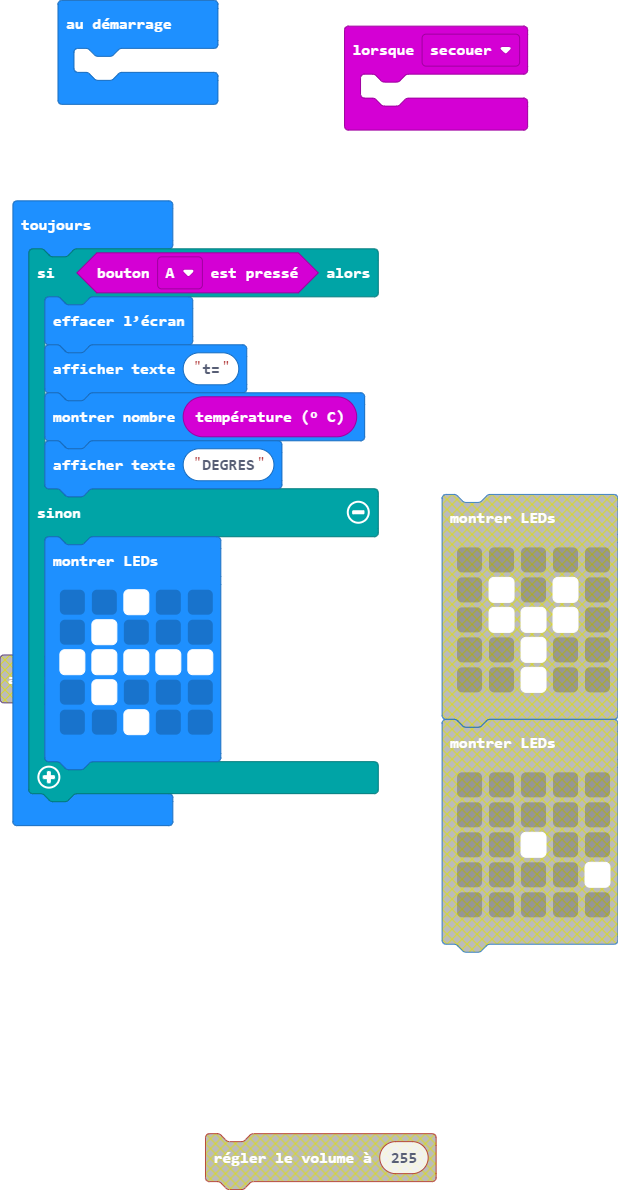
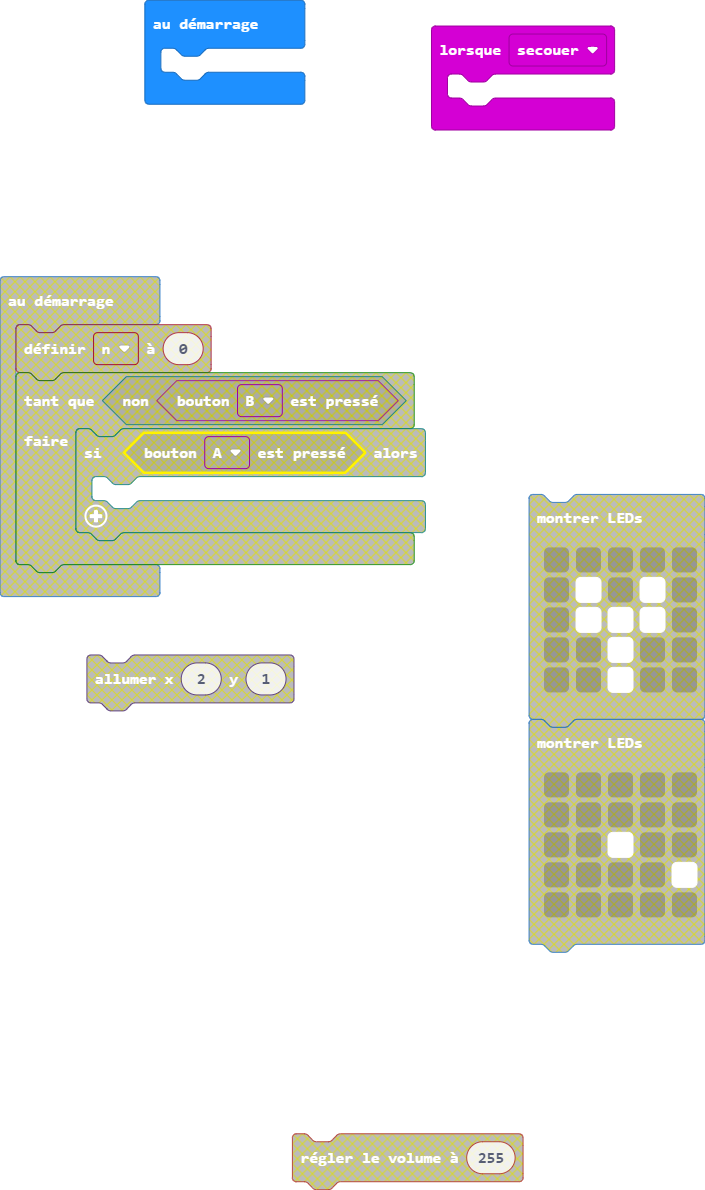
Mise à jour main.blocks, main.ts

diff --git a/main.ts b/main.ts
@@ -1,19 +1,3 @@
 input.onGesture(Gesture.Shake, function () {
 	
 })
-basic.forever(function () {
-    if (input.buttonIsPressed(Button.A)) {
-        basic.clearScreen()
-        basic.showString("t=")
-        basic.showNumber(input.temperature())
-        basic.showString("DEGRES")
-    } else {
-        basic.showLeds(`
-            . . # . .
-            . # . . .
-            # # # # #
-            . # . . .
-            . . # . .
-            `)
-    }
-})
